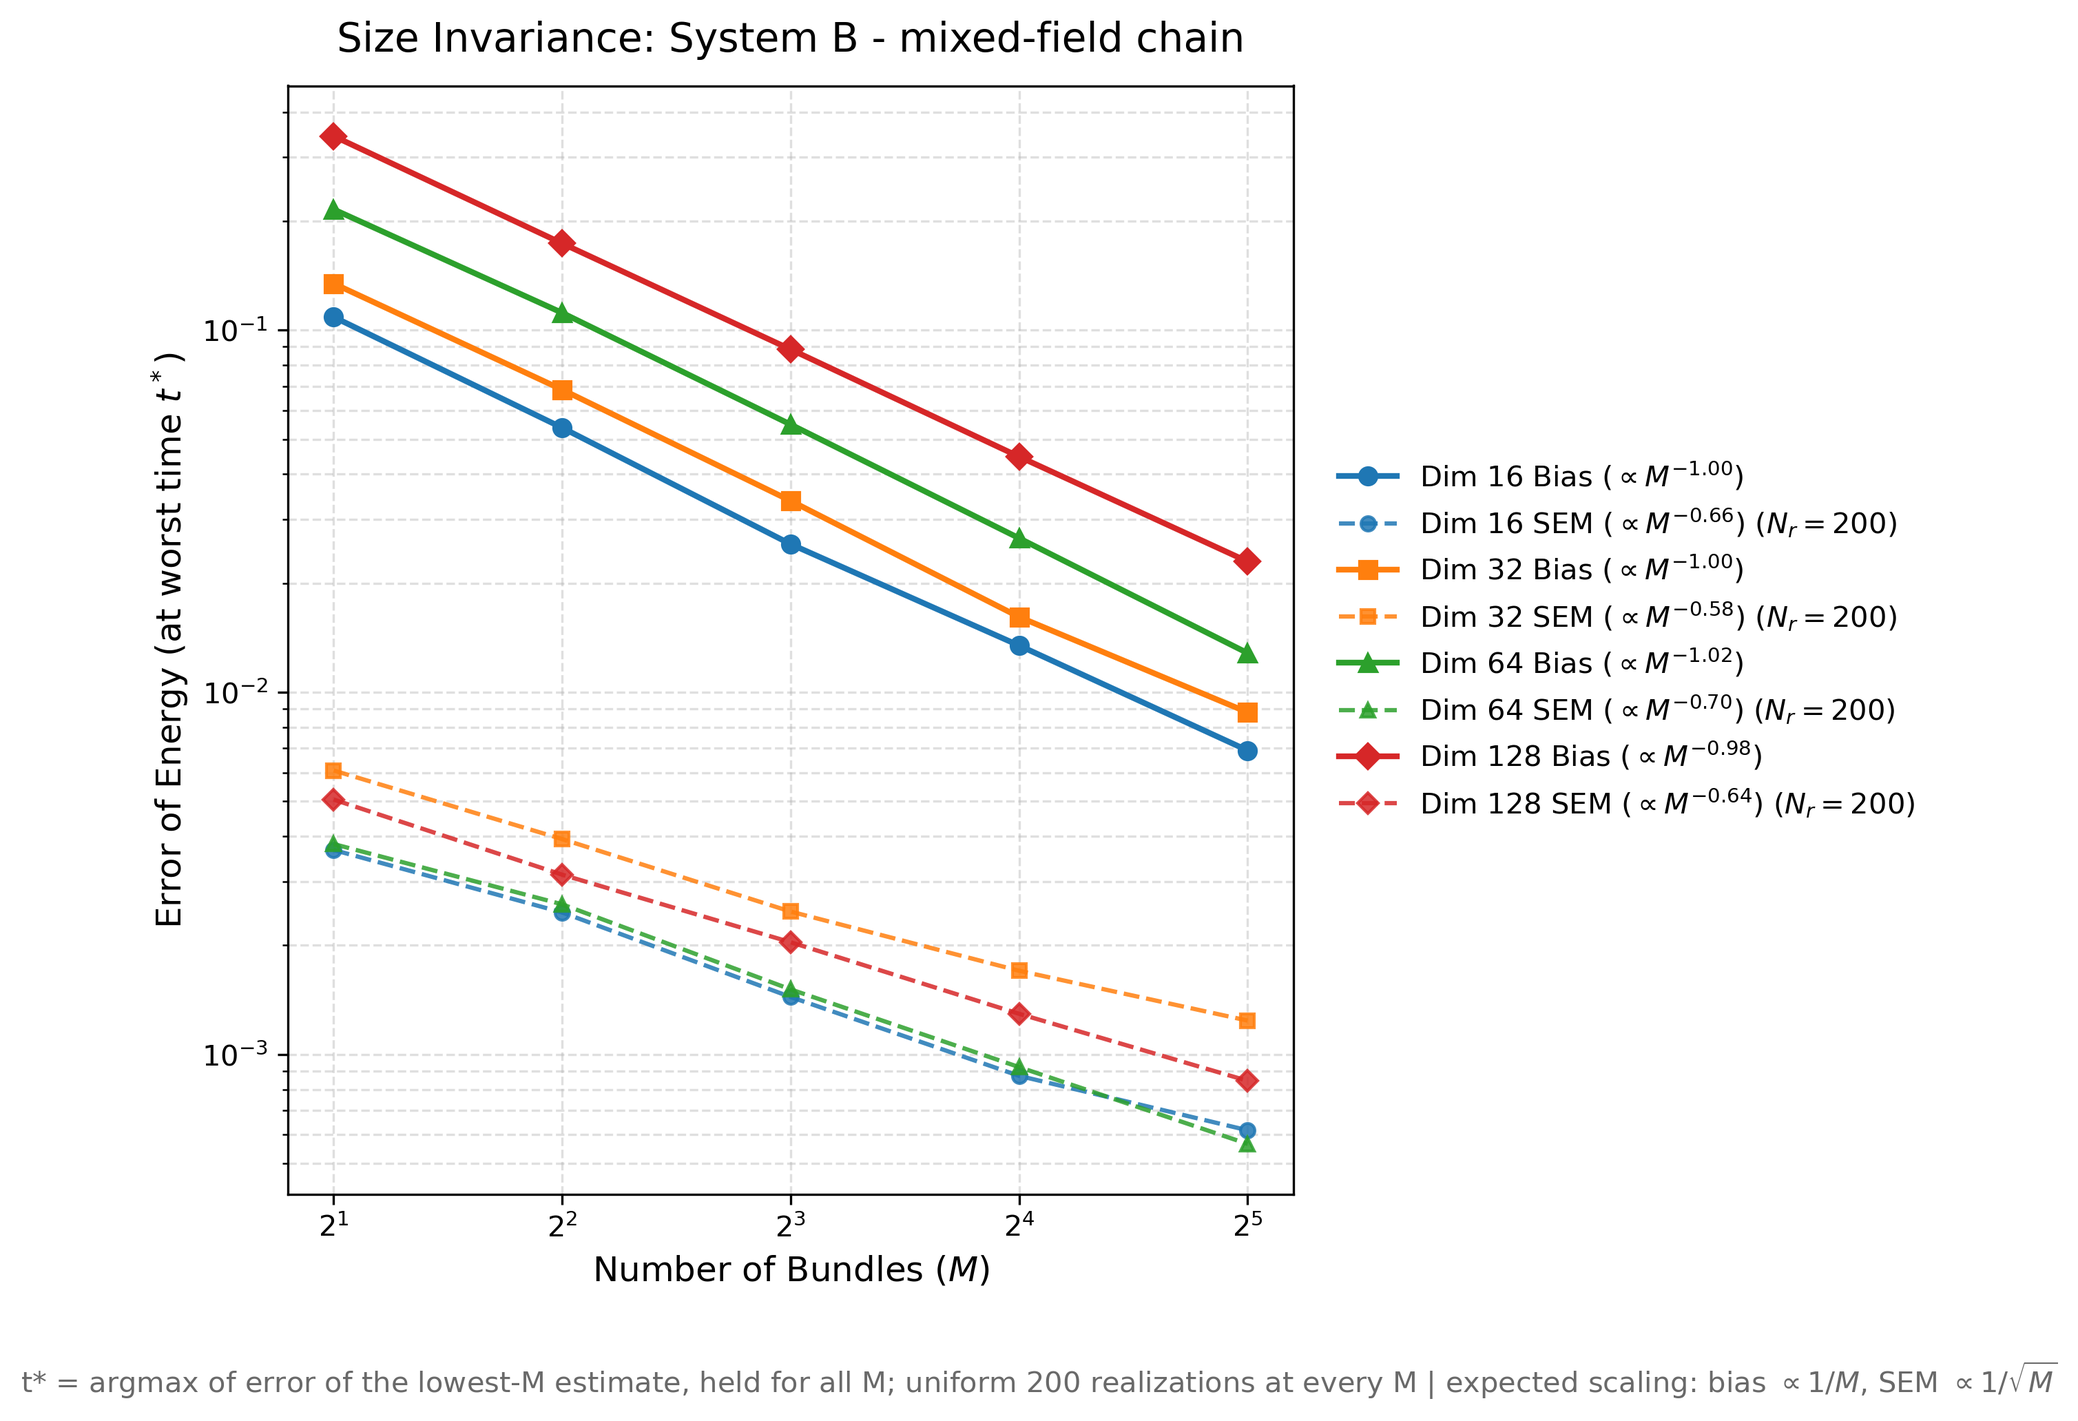
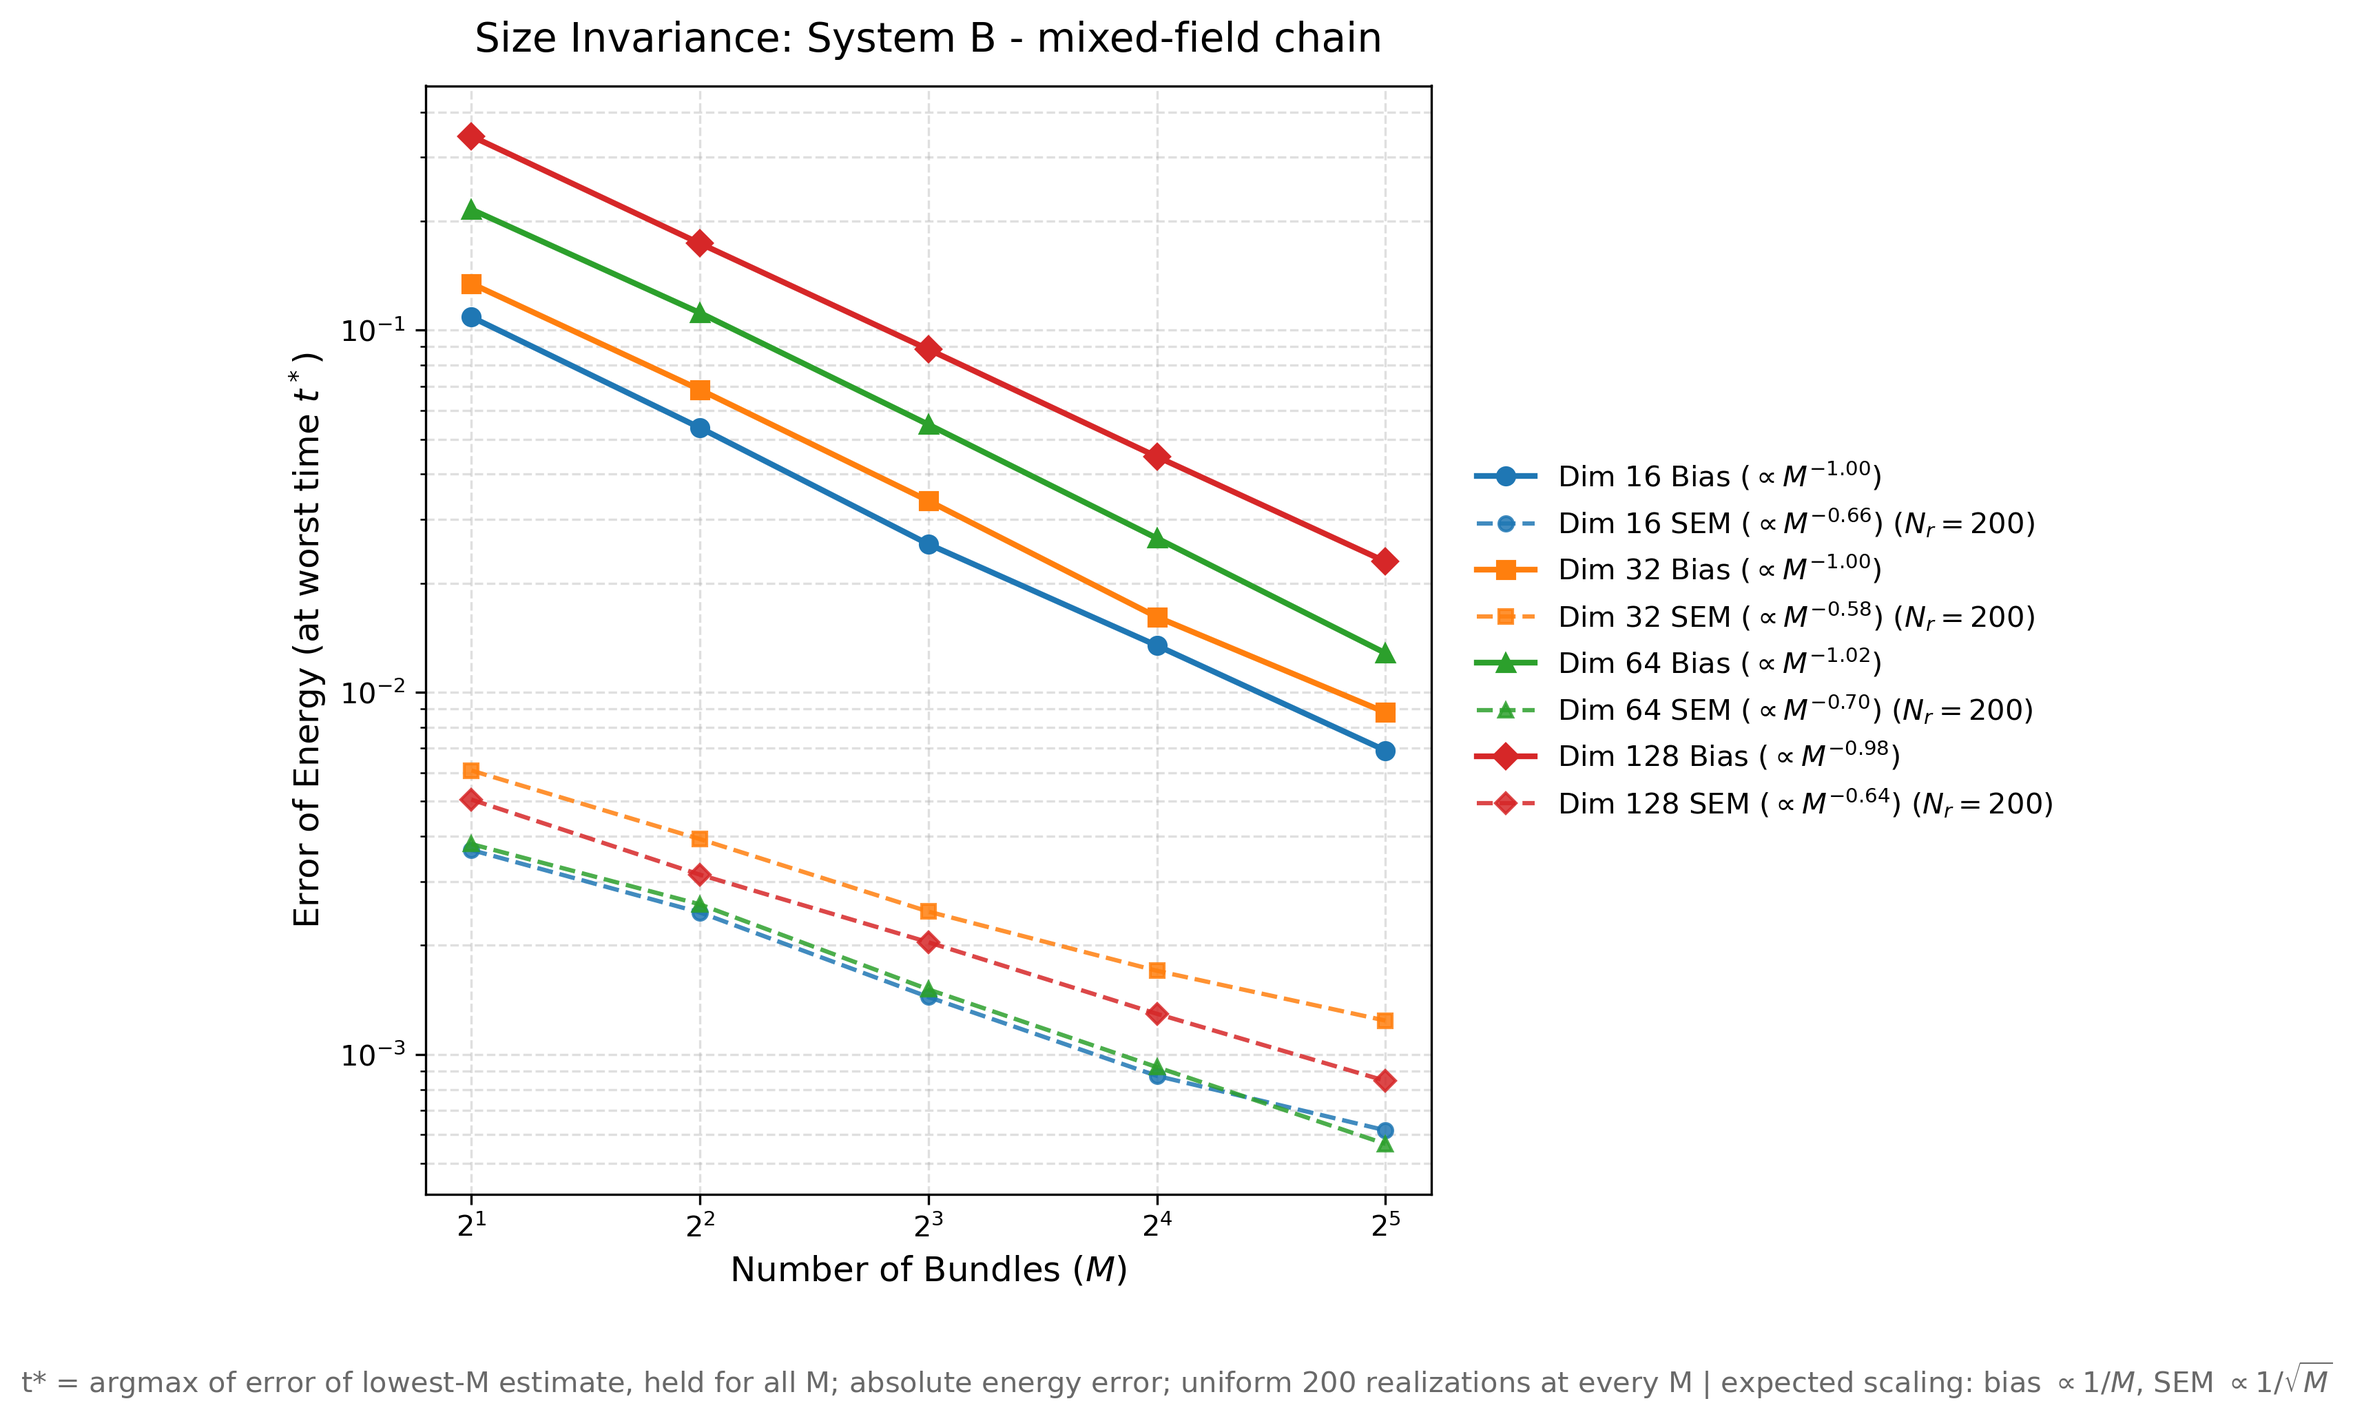
Add relative error and span-normalized size invariance plots and CLI mode

diff --git a/benchmarks/plot_R1_invariance.py b/benchmarks/plot_R1_invariance.py
@@ -1,3 +1,4 @@
+import argparse
 import json
 from pathlib import Path
 
@@ -43,6 +44,7 @@ def load_r1_data(system, dim):
         data = json.load(f)
     return data
 
+
 def calculate_exponent(M_array, bias_array, sem_array):
     M_valid = []
     bias_valid = []
@@ -61,6 +63,7 @@ def calculate_exponent(M_array, bias_array, sem_array):
     else:
         return None, False
 
+
 def calculate_sem_exponent(M_array, sem_array):
     if len(M_array) >= 3:
         slope, intercept, r_value, p_value, std_err = linregress(
@@ -70,148 +73,187 @@ def calculate_sem_exponent(M_array, sem_array):
     else:
         return None, False
 
-# =====================================================================
-# Plotting Logic
-# =====================================================================
-for system in SYSTEMS:
-    fig, ax = plt.subplots(figsize=(9, 6.5))
-    
-    sys_title = SYSTEM_TITLES.get(system, system.replace('_', ' ').title())
-    
-    for dim in DIMS:
-        try:
-            data = load_r1_data(system, dim)
-        except FileNotFoundError as e:
-            print(f"[!] {e}")
-            continue
 
-        # ---------------------------------------------------------
-        # Anatomy Calculation from Raw Time-Series Samples
-        # ---------------------------------------------------------
-        try:
-            sweep_data = data['slb_sweep']
-            # two schemas are committed; read either
-            ref_arr = result1_reference(data, 'energy')
-            
-            M_vals, bias_vals, sem_vals = [], [], []
-            realizations = 0
-            
-            # Find the worst-time index t* from the smallest M bundle if toggled
-            worst_t_idx = 0
-            if EVALUATE_AT_WORST_TIME and len(sweep_data) > 0:
-                smallest_item = sweep_data[0] 
-                s_arr = result1_samples(smallest_item, 'energy')
-                if s_arr.ndim == 1:
-                    s_arr = s_arr.reshape(1, -1)
-                smallest_mean = np.mean(s_arr, axis=0)
-                worst_t_idx = np.argmax(np.abs(smallest_mean - ref_arr))
+def plot_invariance(mode="relative", out_dir=None):
+    """Plot size invariance across dimensions.
+    
+    Parameters
+    ----------
+    mode : {'absolute', 'relative', 'span'}
+        Normalization mode for the y-axis error.
+        - 'absolute': raw energy error |Delta E|.
+        - 'relative': relative energy error |Delta E| / |<H_ref>|.
+        - 'span': span-normalized energy error |Delta E| / Delta E_span.
+    out_dir : Path or str, optional
+        Output directory for saving figures.
+    """
+    if out_dir is None:
+        out_dir = Path(__file__).resolve().parent
+    else:
+        out_dir = Path(out_dir)
 
-            for item in sweep_data:
-                m_val = item.get('M', item.get('bundles'))
+    for system in SYSTEMS:
+        fig, ax = plt.subplots(figsize=(9, 6.5))
+        sys_title = SYSTEM_TITLES.get(system, system.replace('_', ' ').title())
+        realizations = 0
+
+        for dim in DIMS:
+            try:
+                data = load_r1_data(system, dim)
+            except FileNotFoundError as e:
+                print(f"[!] {e}")
+                continue
+
+            # ---------------------------------------------------------
+            # Anatomy Calculation from Raw Time-Series Samples
+            # ---------------------------------------------------------
+            try:
+                sweep_data = data['slb_sweep']
+                ref_arr = result1_reference(data, 'energy')
+                span = np.max(ref_arr) - np.min(ref_arr)
                 
-                samples_arr = result1_samples(item, 'energy')
-                if samples_arr.ndim == 1:
-                    samples_arr = samples_arr.reshape(1, -1)
-                    
-                # Use every realization the run saved. Capping at 16 threw
-                # away 92% of the data and inflated the SEM by sqrt(200/16) =
-                # 3.5x, which pushed points below the bias > 2*SEM bar and left
-                # curves labelled "Level/Marginal" that in fact resolve cleanly.
-                # With all 200 every point certifies and the fitted exponents
-                # tighten onto the theoretical -1 (e.g. spin chain dim 32 moves
-                # from -0.82 to -0.97). The neighbouring decomposition figure
-                # already used all of them, so this also makes the two agree.
-                    
-                n_acc = samples_arr.shape[0]
-                realizations = n_acc
+                M_vals, bias_vals, sem_vals = [], [], []
                 
-                if EVALUATE_AT_WORST_TIME:
-                    run_slice = samples_arr[:, worst_t_idx] 
-                    mean_val = np.mean(run_slice)
-                    ref_val = ref_arr[worst_t_idx]
-                    
-                    bias = np.abs(mean_val - ref_val)
-                    if n_acc > 1:
-                        sem = np.std(run_slice, ddof=1) / np.sqrt(n_acc)
-                    else:
-                        sem = 0.0
+                # Find the worst-time index t* from the smallest M bundle if toggled
+                worst_t_idx = 0
+                if EVALUATE_AT_WORST_TIME and len(sweep_data) > 0:
+                    smallest_item = sweep_data[0] 
+                    s_arr = result1_samples(smallest_item, 'energy')
+                    if s_arr.ndim == 1:
+                        s_arr = s_arr.reshape(1, -1)
+                    smallest_mean = np.mean(s_arr, axis=0)
+                    worst_t_idx = np.argmax(np.abs(smallest_mean - ref_arr))
+
+                ref_val = ref_arr[worst_t_idx]
+                if mode == "relative":
+                    norm_factor = max(abs(ref_val), 1e-12)
+                elif mode == "span":
+                    norm_factor = max(span, 1e-12)
                 else:
-                    mean_traj = np.mean(samples_arr, axis=0)
-                    mse = np.mean((mean_traj - ref_arr)**2)
-                    if n_acc > 1:
-                        sem_sq = np.mean(np.var(samples_arr, axis=0, ddof=1)) / n_acc
+                    norm_factor = 1.0
+
+                for item in sweep_data:
+                    m_val = item.get('M', item.get('bundles'))
+                    samples_arr = result1_samples(item, 'energy')
+                    if samples_arr.ndim == 1:
+                        samples_arr = samples_arr.reshape(1, -1)
+                        
+                    n_acc = samples_arr.shape[0]
+                    realizations = n_acc
+                    
+                    if EVALUATE_AT_WORST_TIME:
+                        run_slice = samples_arr[:, worst_t_idx] 
+                        mean_val = np.mean(run_slice)
+                        
+                        bias = np.abs(mean_val - ref_val) / norm_factor
+                        if n_acc > 1:
+                            sem = (np.std(run_slice, ddof=1) / np.sqrt(n_acc)) / norm_factor
+                        else:
+                            sem = 0.0
                     else:
-                        sem_sq = 0.0
-                    bias_sq = max(0.0, mse - sem_sq)
-                    bias = np.sqrt(bias_sq)
-                    sem = np.sqrt(sem_sq)
+                        mean_traj = np.mean(samples_arr, axis=0)
+                        mse = np.mean((mean_traj - ref_arr)**2)
+                        if n_acc > 1:
+                            sem_sq = np.mean(np.var(samples_arr, axis=0, ddof=1)) / n_acc
+                        else:
+                            sem_sq = 0.0
+                        bias_sq = max(0.0, mse - sem_sq)
+                        bias = np.sqrt(bias_sq) / norm_factor
+                        sem = np.sqrt(sem_sq) / norm_factor
 
-                M_vals.append(m_val)
-                bias_vals.append(bias)
-                sem_vals.append(sem)
+                    M_vals.append(m_val)
+                    bias_vals.append(bias)
+                    sem_vals.append(sem)
 
-            M_vals = np.array(M_vals)
-            bias = np.array(bias_vals)
-            sem = np.array(sem_vals)
+                M_vals = np.array(M_vals)
+                bias = np.array(bias_vals)
+                sem = np.array(sem_vals)
 
-            # Filter M range using the configuration toggles at the top
-            valid_mask = (M_vals >= MIN_M) & (M_vals <= MAX_M)
-            M_vals = M_vals[valid_mask]
-            bias = bias[valid_mask]
-            sem = sem[valid_mask]
+                # Filter M range using the configuration toggles at the top
+                valid_mask = (M_vals >= MIN_M) & (M_vals <= MAX_M)
+                M_vals = M_vals[valid_mask]
+                bias = bias[valid_mask]
+                sem = sem[valid_mask]
 
-        except KeyError as e:
-            print(f"\n[!] {e} not found for {system} (dim={dim}).")
-            continue 
+            except KeyError as e:
+                print(f"\n[!] {e} not found for {system} (dim={dim}).")
+                continue 
 
-        # ---------------------------------------------------------
-        # Visual Layers with Exponents for both Bias and SEM
-        # ---------------------------------------------------------
-        bias_exp, bias_cert = calculate_exponent(M_vals, bias, sem)
-        bias_suffix = rf" ($\propto M^{{{bias_exp:.2f}}}$)" if bias_cert else " (Level/Marginal)"
+            # ---------------------------------------------------------
+            # Visual Layers with Exponents for both Bias and SEM
+            # ---------------------------------------------------------
+            bias_exp, bias_cert = calculate_exponent(M_vals, bias, sem)
+            bias_suffix = rf" ($\propto M^{{{bias_exp:.2f}}}$)" if bias_cert else " (Level/Marginal)"
+            
+            sem_exp, sem_cert = calculate_sem_exponent(M_vals, sem)
+            sem_suffix = rf" ($\propto M^{{{sem_exp:.2f}}}$)" if sem_cert else ""
+            
+            # Bias (Solid Line with Markers)
+            ax.plot(M_vals, bias, color=COLORS[dim], linestyle='-', linewidth=2, 
+                    marker=MARKERS[dim], markersize=6,
+                    label=f"Dim {dim} Bias{bias_suffix}")
+            
+            # SEM Line (Dashed Line with Markers)
+            ax.plot(M_vals, sem, color=COLORS[dim], linestyle='--', linewidth=1.5, 
+                    marker=MARKERS[dim], markersize=5, alpha=0.85,
+                    label=rf"Dim {dim} SEM{sem_suffix} ($N_r={realizations}$)")
+
+        # =====================================================================
+        # Formatting & Output
+        # =====================================================================
+        ax.set_xscale('log', base=2)
+        ax.set_yscale('log', base=10)
+        ax.set_xlabel('Number of Bundles ($M$)', fontsize=12)
         
-        sem_exp, sem_cert = calculate_sem_exponent(M_vals, sem)
-        sem_suffix = rf" ($\propto M^{{{sem_exp:.2f}}}$)" if sem_cert else ""
+        if mode == "relative":
+            y_label_text = r'Relative Energy Error $|\Delta E| / |\langle H \rangle|$ (at $t^*$)' if EVALUATE_AT_WORST_TIME else r'Time-Averaged Relative Error $|\Delta E| / |\langle H \rangle|$'
+            title_prefix = 'Size Invariance (Relative Error)'
+            norm_desc = r"normalized by $|E_{\rm ref}(t^*)|$"
+            suffix = "_relative"
+        elif mode == "span":
+            y_label_text = r'Span-Normalized Error $|\Delta E| / \Delta E_{\rm span}$ (at $t^*$)' if EVALUATE_AT_WORST_TIME else r'Time-Averaged Span-Normalized Error'
+            title_prefix = 'Size Invariance (Span-Normalized)'
+            norm_desc = r"normalized by dynamic span $\Delta E_{\rm span}$"
+            suffix = "_span"
+        else:
+            y_label_text = 'Error of Energy (at worst time $t^*$)' if EVALUATE_AT_WORST_TIME else 'Time-Averaged Error of Energy'
+            title_prefix = 'Size Invariance'
+            norm_desc = "absolute energy error"
+            suffix = ""
+
+        ax.set_ylabel(y_label_text, fontsize=12)
+        ax.set_title(f'{title_prefix}: {sys_title}', fontsize=14, pad=12)
+
+        # Place legend outside to avoid obscuring data lines
+        ax.legend(loc='center left', bbox_to_anchor=(1.02, 0.5), frameon=False, fontsize=10)
+        ax.grid(True, which="both", ls="--", alpha=0.4)
+
+        # Add suite-style settings footer caption
+        footer_text = (
+            f"t* = argmax of error of lowest-M estimate, held for all M; {norm_desc}; "
+            f"uniform {realizations} realizations at every M | "
+            rf"expected scaling: bias $\propto 1/M$, SEM $\propto 1/\sqrt{{M}}$"
+        )
+        add_settings_footer(fig, footer_text, fontsize=10, wrap_chars=130)
+
+        plt.tight_layout()
         
-        # Bias (Solid Line with Markers)
-        ax.plot(M_vals, bias, color=COLORS[dim], linestyle='-', linewidth=2, 
-                marker=MARKERS[dim], markersize=6,
-                label=f"Dim {dim} Bias{bias_suffix}")
-        
-        # SEM Line (Dashed Line with Markers)
-        ax.plot(M_vals, sem, color=COLORS[dim], linestyle='--', linewidth=1.5, 
-                marker=MARKERS[dim], markersize=5, alpha=0.85,
-                label=rf"Dim {dim} SEM{sem_suffix} ($N_r={realizations}$)")
+        # Save as PNG
+        output_filename = out_dir / f"accuracy_vs_M_invariance_{system}{suffix}.png"
+        plt.savefig(output_filename, dpi=300, bbox_inches='tight')
+        print(f"Saved invariance plot to {output_filename}")
+        plt.close(fig)
 
-    # =====================================================================
-    # Formatting & Output
-    # =====================================================================
-    ax.set_xscale('log', base=2)
-    ax.set_yscale('log', base=10)
-    ax.set_xlabel('Number of Bundles ($M$)', fontsize=12)
-    
-    y_label_text = 'Error of Energy (at worst time $t^*$)' if EVALUATE_AT_WORST_TIME else 'Time-Averaged Error of Energy'
-    ax.set_ylabel(y_label_text, fontsize=12)
-    
-    ax.set_title(f'Size Invariance: {sys_title}', fontsize=14, pad=12)
 
-    # Place legend outside to avoid obscuring data lines
-    ax.legend(loc='center left', bbox_to_anchor=(1.02, 0.5), frameon=False, fontsize=10)
-    ax.grid(True, which="both", ls="--", alpha=0.4)
+if __name__ == "__main__":
+    parser = argparse.ArgumentParser(description="Plot R1 size invariance curves.")
+    parser.add_argument("--mode", choices=["absolute", "relative", "span", "all"],
+                        default="all",
+                        help="Error normalization mode (default: all)")
+    args = parser.parse_args()
 
-    # Add suite-style settings footer caption
-    footer_text = (
-        f"t* = argmax of error of the lowest-M estimate, held for all M; "
-        f"uniform {realizations} realizations at every M | "
-        rf"expected scaling: bias $\propto 1/M$, SEM $\propto 1/\sqrt{{M}}$"
-    )
-    add_settings_footer(fig, footer_text, fontsize=10, wrap_chars=130)
-
-    plt.tight_layout()
-    
-    # Save as PNG
-    output_filename = f"accuracy_vs_M_invariance_{system}.png"
-    plt.savefig(output_filename, dpi=300, bbox_inches='tight')
-    print(f"Saved invariance plot to {output_filename}")
-    
-    plt.close(fig)
+    if args.mode == "all":
+        for m in ["absolute", "relative", "span"]:
+            plot_invariance(mode=m)
+    else:
+        plot_invariance(mode=args.mode)
